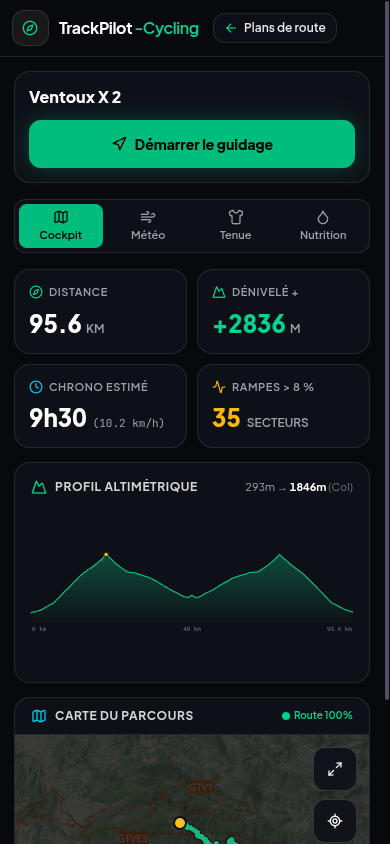
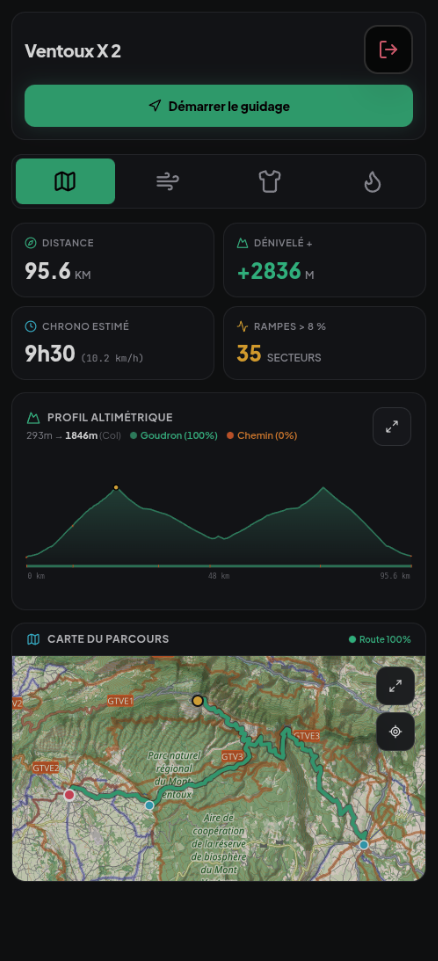
style(ui): habillage châssis smartphone réaliste et capture mobile épurée dans ScreenVersions

diff --git a/src/components/ScreenVersions.tsx b/src/components/ScreenVersions.tsx
@@ -159,20 +159,59 @@ export const ScreenVersions: React.FC = () => {
 
         {/* Smartphone Screenshot Frame (4 cols) */}
         <div className="lg:col-span-4 flex flex-col items-center">
-          <div className="w-full max-w-[260px] sm:max-w-[280px] rounded-[24px] p-2 bg-dark-900 border border-white/15 shadow-card">
-            <div className="rounded-[18px] overflow-hidden border border-white/10 bg-dark-950">
-              <div className="flex items-center justify-center py-1.5 bg-dark-950 border-b border-white/[0.05]" aria-hidden="true">
-                <span className="w-14 h-2 rounded-full bg-dark-850 border border-white/10" />
-              </div>
-              <div className="aspect-[390/844] w-full overflow-hidden bg-dark-950">
-                <img
-                  src="/images/cockpit_mobile_ventoux.png"
-                  alt="Capture d'écran réelle du Cockpit TrackPilot Cycling sur smartphone : même parcours Ventoux X 2 en vue épurée avec guidage direct, 4 indicateurs essentiels, profil et carte"
-                  width={390}
-                  height={844}
-                  decoding="async"
-                  className="block w-full h-full object-cover object-left-top"
-                />
+          {/* Realistic Smartphone Chassis (Titanium Bezel + Side Buttons + Dynamic Island + Home Bar) */}
+          <div className="relative w-full max-w-[265px] sm:max-w-[285px]">
+            {/* Left Side Physical Buttons (Silent switch + Volume Up/Down) */}
+            <span className="absolute -left-[3px] top-20 w-[3px] h-5 rounded-l-sm bg-slate-600/80 border-l border-white/20" aria-hidden="true" />
+            <span className="absolute -left-[3px] top-28 w-[3px] h-9 rounded-l-sm bg-slate-600/80 border-l border-white/20" aria-hidden="true" />
+            <span className="absolute -left-[3px] top-40 w-[3px] h-9 rounded-l-sm bg-slate-600/80 border-l border-white/20" aria-hidden="true" />
+            {/* Right Side Power Button */}
+            <span className="absolute -right-[3px] top-32 w-[3px] h-12 rounded-r-sm bg-slate-600/80 border-r border-white/20" aria-hidden="true" />
+
+            {/* Outer Metallic Titanium Frame */}
+            <div className="rounded-[36px] p-[7px] bg-gradient-to-b from-slate-700/70 via-dark-850 to-slate-800/80 border border-white/20 shadow-[0_20px_50px_rgba(0,0,0,0.75),inset_0_1px_1px_rgba(255,255,255,0.25)]">
+              {/* Inner OLED Screen Bezel */}
+              <div className="rounded-[29px] overflow-hidden bg-[#0e0f10] ring-1 ring-black/90">
+                {/* Mobile Status Bar + Dynamic Island */}
+                <div className="relative flex items-center justify-between px-5 pt-2 pb-1.5 bg-[#0e0f10] text-[10px] font-semibold text-white/85 select-none" aria-hidden="true">
+                  <span className="tabular-nums tracking-tight">09:41</span>
+                  {/* Dynamic Island Pill */}
+                  <div className="absolute left-1/2 -translate-x-1/2 top-1.5 w-16 h-4 rounded-full bg-black border border-white/[0.08] flex items-center justify-end pr-1.5">
+                    <span className="w-2 h-2 rounded-full bg-[#111827] ring-1 ring-indigo-500/30" />
+                  </div>
+                  {/* Cellular + 5G + Battery */}
+                  <div className="flex items-center gap-1.5">
+                    <div className="flex items-end gap-[1.5px] h-2.5">
+                      <span className="w-[2px] h-1 rounded-[0.5px] bg-white/85" />
+                      <span className="w-[2px] h-1.5 rounded-[0.5px] bg-white/85" />
+                      <span className="w-[2px] h-2 rounded-[0.5px] bg-white/85" />
+                      <span className="w-[2px] h-2.5 rounded-[0.5px] bg-white/85" />
+                    </div>
+                    <span className="text-[8px] font-bold tracking-tighter text-white/80">5G</span>
+                    <div className="flex items-center">
+                      <span className="w-4 h-2.5 rounded-[3px] border border-white/50 p-[1.5px] flex items-center">
+                        <span className="w-full h-full rounded-[1px] bg-brand-neon" />
+                      </span>
+                    </div>
+                  </div>
+                </div>
+
+                {/* Pure App Viewport (Zero Windows frame) */}
+                <div className="aspect-[438/961] w-full overflow-hidden bg-[#0e0f10]">
+                  <img
+                    src="/images/cockpit_mobile_ventoux.png"
+                    alt="Capture d'écran réelle du Cockpit TrackPilot Cycling sur smartphone : même parcours Ventoux X 2 en vue épurée avec guidage direct, 4 indicateurs essentiels, profil et carte"
+                    width={438}
+                    height={961}
+                    decoding="async"
+                    className="block w-full h-full object-contain"
+                  />
+                </div>
+
+                {/* Bottom Home Gesture Bar */}
+                <div className="flex items-center justify-center pt-1.5 pb-2 bg-[#0e0f10]" aria-hidden="true">
+                  <span className="w-24 h-1 rounded-full bg-white/30" />
+                </div>
               </div>
             </div>
           </div>
